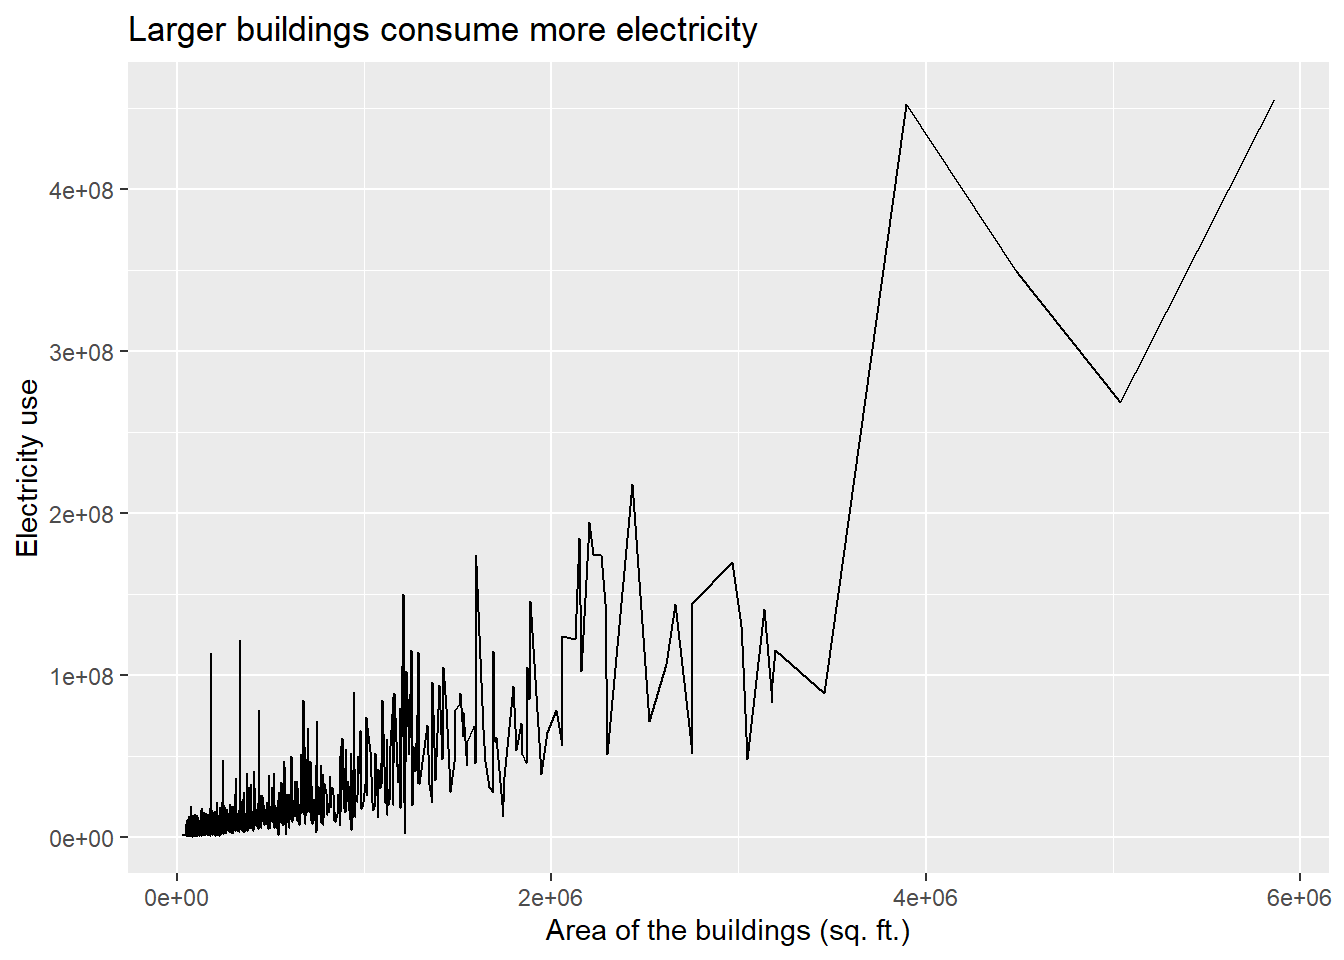
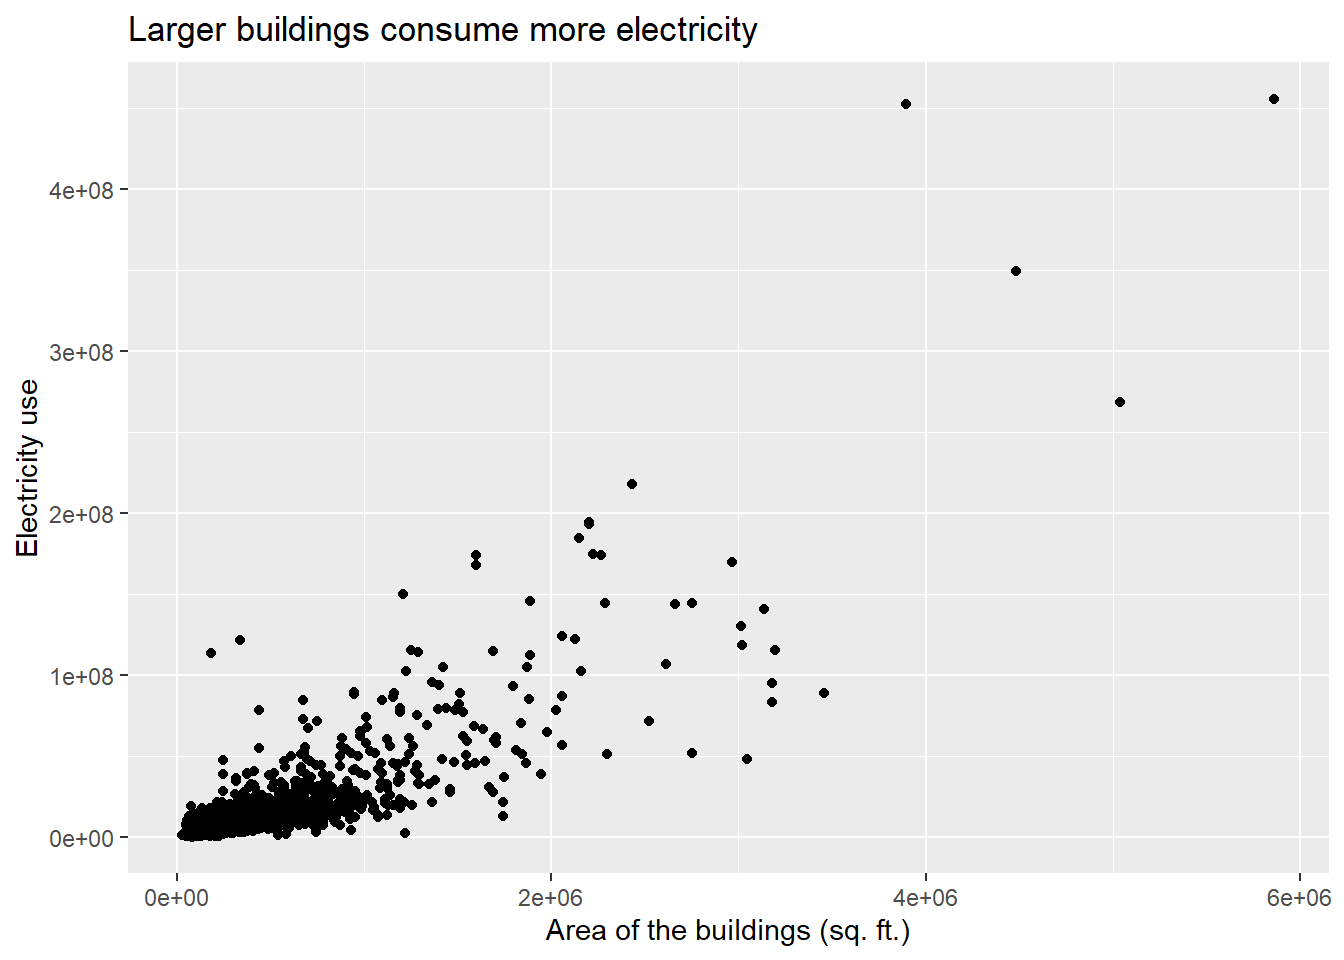
ggplot2 tutorial

diff --git a/docs/fundamental_data_viz.html b/docs/fundamental_data_viz.html
@@ -208,10 +208,8 @@ code span.wa { color: #60a0b0; font-weight: bold; font-style: italic; } /* Warni
   <li><a href="#creating-histograms-to-assess-distribution-of-data" id="toc-creating-histograms-to-assess-distribution-of-data" class="nav-link" data-scroll-target="#creating-histograms-to-assess-distribution-of-data">Creating histograms to assess distribution of data</a></li>
   <li><a href="#visualizing-distribution-using-box-plots" id="toc-visualizing-distribution-using-box-plots" class="nav-link" data-scroll-target="#visualizing-distribution-using-box-plots">Visualizing distribution using box plots</a></li>
   <li><a href="#bar-charts-to-plot-frequency-of-categorical-data" id="toc-bar-charts-to-plot-frequency-of-categorical-data" class="nav-link" data-scroll-target="#bar-charts-to-plot-frequency-of-categorical-data">Bar charts to plot frequency of categorical data</a></li>
-  <li><a href="#creating-data-art-using-ggplot" id="toc-creating-data-art-using-ggplot" class="nav-link" data-scroll-target="#creating-data-art-using-ggplot">Creating data art using ggplot</a>
-  <ul class="collapse">
+  <li><a href="#creating-data-art-using-ggplot" id="toc-creating-data-art-using-ggplot" class="nav-link" data-scroll-target="#creating-data-art-using-ggplot">Creating data art using ggplot</a></li>
   <li><a href="#comparing-distribution-across-zip-codes" id="toc-comparing-distribution-across-zip-codes" class="nav-link" data-scroll-target="#comparing-distribution-across-zip-codes">Comparing distribution across zip codes</a></li>
-  </ul></li>
   </ul>
 </nav>
     </div>
@@ -234,7 +232,7 @@ code span.wa { color: #60a0b0; font-weight: bold; font-style: italic; } /* Warni
 
 </header>
 
-<p>Data visualization helps us mainly with two analytical goals:</p>
+<p>Data visualization helps us mainly with two analytic goals:</p>
 <ul>
 <li>Making sense of data: identify relationships between variables, identify trends and patterns, and gather insights.</li>
 <li>Communicate findings from data analysis with various audience</li>
@@ -296,7 +294,7 @@ code span.wa { color: #60a0b0; font-weight: bold; font-style: italic; } /* Warni
 <div class="cell">
 <div class="sourceCode cell-code" id="cb4"><pre class="sourceCode r code-with-copy"><code class="sourceCode r"><span id="cb4-1"><a href="#cb4-1" aria-hidden="true" tabindex="-1"></a><span class="fu">ggplot</span>(df) <span class="sc">+</span></span>
 <span id="cb4-2"><a href="#cb4-2" aria-hidden="true" tabindex="-1"></a>  <span class="fu">aes</span>(<span class="at">x=</span> area, <span class="at">y =</span> electricity_use)<span class="sc">+</span></span>
-<span id="cb4-3"><a href="#cb4-3" aria-hidden="true" tabindex="-1"></a>  <span class="fu">geom_line</span>()</span></code><button title="Copy to Clipboard" class="code-copy-button"><i class="bi"></i></button></pre></div>
+<span id="cb4-3"><a href="#cb4-3" aria-hidden="true" tabindex="-1"></a>  <span class="fu">geom_point</span>()</span></code><button title="Copy to Clipboard" class="code-copy-button"><i class="bi"></i></button></pre></div>
 <div class="cell-output-display">
 <p><img src="fundamental_data_viz_files/figure-html/unnamed-chunk-3-1.png" class="img-fluid" width="672"></p>
 </div>
@@ -340,7 +338,7 @@ Exercise
 <div class="cell">
 <div class="sourceCode cell-code" id="cb5"><pre class="sourceCode r code-with-copy"><code class="sourceCode r"><span id="cb5-1"><a href="#cb5-1" aria-hidden="true" tabindex="-1"></a><span class="fu">ggplot</span>(df) <span class="sc">+</span></span>
 <span id="cb5-2"><a href="#cb5-2" aria-hidden="true" tabindex="-1"></a>  <span class="fu">aes</span>(<span class="at">x=</span> area, <span class="at">y =</span> electricity_use)<span class="sc">+</span></span>
-<span id="cb5-3"><a href="#cb5-3" aria-hidden="true" tabindex="-1"></a>  <span class="fu">geom_line</span>()<span class="sc">+</span></span>
+<span id="cb5-3"><a href="#cb5-3" aria-hidden="true" tabindex="-1"></a>  <span class="fu">geom_point</span>()<span class="sc">+</span></span>
 <span id="cb5-4"><a href="#cb5-4" aria-hidden="true" tabindex="-1"></a>  <span class="fu">labs</span>(<span class="at">title =</span> <span class="st">"Larger buildings consume more electricity"</span>,</span>
 <span id="cb5-5"><a href="#cb5-5" aria-hidden="true" tabindex="-1"></a>       <span class="at">x =</span> <span class="st">"Area of the buildings (sq. ft.)"</span>,</span>
 <span id="cb5-6"><a href="#cb5-6" aria-hidden="true" tabindex="-1"></a>       <span class="at">y =</span> <span class="st">"Electricity use"</span>)</span></code><button title="Copy to Clipboard" class="code-copy-button"><i class="bi"></i></button></pre></div>
@@ -353,7 +351,7 @@ Exercise
 <div class="cell">
 <div class="sourceCode cell-code" id="cb6"><pre class="sourceCode r code-with-copy"><code class="sourceCode r"><span id="cb6-1"><a href="#cb6-1" aria-hidden="true" tabindex="-1"></a>p <span class="ot">&lt;-</span> <span class="fu">ggplot</span>(df) <span class="sc">+</span></span>
 <span id="cb6-2"><a href="#cb6-2" aria-hidden="true" tabindex="-1"></a>  <span class="fu">aes</span>(<span class="at">x=</span> area, <span class="at">y =</span> electricity_use)<span class="sc">+</span></span>
-<span id="cb6-3"><a href="#cb6-3" aria-hidden="true" tabindex="-1"></a>  <span class="fu">geom_line</span>()<span class="sc">+</span></span>
+<span id="cb6-3"><a href="#cb6-3" aria-hidden="true" tabindex="-1"></a>  <span class="fu">geom_point</span>(<span class="at">alpha=</span><span class="fl">0.5</span>)<span class="sc">+</span> <span class="co">#alpha is for the transparency of the dots</span></span>
 <span id="cb6-4"><a href="#cb6-4" aria-hidden="true" tabindex="-1"></a>  <span class="fu">labs</span>(<span class="at">title =</span> <span class="st">"Larger buildings consume more electricity"</span>,</span>
 <span id="cb6-5"><a href="#cb6-5" aria-hidden="true" tabindex="-1"></a>       <span class="at">x =</span> <span class="st">"Area of the buildings (sq. ft.)"</span>,</span>
 <span id="cb6-6"><a href="#cb6-6" aria-hidden="true" tabindex="-1"></a>       <span class="at">y =</span> <span class="st">"Electricity use"</span>)</span></code><button title="Copy to Clipboard" class="code-copy-button"><i class="bi"></i></button></pre></div>
@@ -533,13 +531,13 @@ Exercise
 <section id="bar-charts-to-plot-frequency-of-categorical-data" class="level2">
 <h2 class="anchored" data-anchor-id="bar-charts-to-plot-frequency-of-categorical-data">Bar charts to plot frequency of categorical data</h2>
 <p>Bar charts help us visualize categorical data such as colors, zip codes, cities, etc.</p>
-<p>Number of buildings in each zip code</p>
+<p><em>Number of buildings in each zip code</em></p>
 <div class="cell">
 <div class="sourceCode cell-code" id="cb21"><pre class="sourceCode r code-with-copy"><code class="sourceCode r"><span id="cb21-1"><a href="#cb21-1" aria-hidden="true" tabindex="-1"></a>bldg_zip_df <span class="ot">&lt;-</span> df <span class="sc">|&gt;</span></span>
 <span id="cb21-2"><a href="#cb21-2" aria-hidden="true" tabindex="-1"></a>  <span class="fu">group_by</span>(zip_code) <span class="sc">%&gt;%</span> </span>
 <span id="cb21-3"><a href="#cb21-3" aria-hidden="true" tabindex="-1"></a>  <span class="fu">summarise</span>(<span class="at">num_buildings =</span> <span class="fu">n</span>())</span></code><button title="Copy to Clipboard" class="code-copy-button"><i class="bi"></i></button></pre></div>
 </div>
-<p>Bar chart</p>
+<p><em>Bar chart</em></p>
 <div class="cell">
 <div class="sourceCode cell-code" id="cb22"><pre class="sourceCode r code-with-copy"><code class="sourceCode r"><span id="cb22-1"><a href="#cb22-1" aria-hidden="true" tabindex="-1"></a><span class="fu">ggplot</span>(bldg_zip_df , <span class="fu">aes</span>(<span class="at">x =</span> zip_code, <span class="at">y =</span> num_buildings)) <span class="sc">+</span> </span>
 <span id="cb22-2"><a href="#cb22-2" aria-hidden="true" tabindex="-1"></a>  <span class="fu">geom_bar</span>(<span class="at">stat =</span> <span class="st">"identity"</span>) <span class="sc">+</span></span>
@@ -620,8 +618,9 @@ Exercise
 <p><img src="fundamental_data_viz_files/figure-html/unnamed-chunk-19-1.png" class="img-fluid" width="672"></p>
 </div>
 </div>
-<section id="comparing-distribution-across-zip-codes" class="level3">
-<h3 class="anchored" data-anchor-id="comparing-distribution-across-zip-codes">Comparing distribution across zip codes</h3>
+</section>
+<section id="comparing-distribution-across-zip-codes" class="level2">
+<h2 class="anchored" data-anchor-id="comparing-distribution-across-zip-codes">Comparing distribution across zip codes</h2>
 <p>Another alternative is Violin plots that combine the advantages of histogram and box plots.</p>
 <div class="cell">
 <div class="sourceCode cell-code" id="cb28"><pre class="sourceCode r code-with-copy"><code class="sourceCode r"><span id="cb28-1"><a href="#cb28-1" aria-hidden="true" tabindex="-1"></a>df2 <span class="ot">&lt;-</span> df <span class="sc">|&gt;</span> </span>
@@ -651,14 +650,20 @@ Exercise
 <p>Let’s compare two zip codes with the most number of buildings on the distribution of sizes of the buildings.</p>
 <div class="cell">
 <div class="sourceCode cell-code" id="cb30"><pre class="sourceCode r code-with-copy"><code class="sourceCode r"><span id="cb30-1"><a href="#cb30-1" aria-hidden="true" tabindex="-1"></a><span class="fu">ggplot</span>(df2, <span class="fu">aes</span>(<span class="at">x =</span> <span class="fu">as.factor</span>(zip_code), <span class="at">y =</span> area)) <span class="sc">+</span></span>
-<span id="cb30-2"><a href="#cb30-2" aria-hidden="true" tabindex="-1"></a>  <span class="fu">geom_violin</span>() </span></code><button title="Copy to Clipboard" class="code-copy-button"><i class="bi"></i></button></pre></div>
+<span id="cb30-2"><a href="#cb30-2" aria-hidden="true" tabindex="-1"></a>  <span class="fu">geom_violin</span>() <span class="sc">+</span></span>
+<span id="cb30-3"><a href="#cb30-3" aria-hidden="true" tabindex="-1"></a>  <span class="fu">stat_summary</span>(<span class="at">fun.y=</span>mean, <span class="at">geom=</span><span class="st">"point"</span>, <span class="at">size=</span><span class="dv">2</span>) <span class="sc">+</span> <span class="co">#add mean</span></span>
+<span id="cb30-4"><a href="#cb30-4" aria-hidden="true" tabindex="-1"></a>  <span class="fu">stat_summary</span>(<span class="at">fun.y=</span>median, <span class="at">geom=</span><span class="st">"point"</span>, <span class="at">size=</span><span class="dv">2</span>, <span class="at">color=</span><span class="st">"red"</span>) <span class="co"># add median</span></span></code><button title="Copy to Clipboard" class="code-copy-button"><i class="bi"></i></button></pre></div>
+<div class="cell-output cell-output-stderr">
+<pre><code>Warning: The `fun.y` argument of `stat_summary()` is deprecated as of ggplot2 3.3.0.
+ℹ Please use the `fun` argument instead.</code></pre>
+</div>
 <div class="cell-output-display">
 <p><img src="fundamental_data_viz_files/figure-html/unnamed-chunk-21-1.png" class="img-fluid" width="672"></p>
 </div>
 </div>
 <div class="cell">
-<div class="sourceCode cell-code" id="cb31"><pre class="sourceCode r code-with-copy"><code class="sourceCode r"><span id="cb31-1"><a href="#cb31-1" aria-hidden="true" tabindex="-1"></a><span class="fu">ggplot</span>(df2, <span class="fu">aes</span>(<span class="at">x =</span> <span class="fu">as.factor</span>(zip_code), <span class="at">y =</span> area)) <span class="sc">+</span></span>
-<span id="cb31-2"><a href="#cb31-2" aria-hidden="true" tabindex="-1"></a>  <span class="fu">geom_boxplot</span>() </span></code><button title="Copy to Clipboard" class="code-copy-button"><i class="bi"></i></button></pre></div>
+<div class="sourceCode cell-code" id="cb32"><pre class="sourceCode r code-with-copy"><code class="sourceCode r"><span id="cb32-1"><a href="#cb32-1" aria-hidden="true" tabindex="-1"></a><span class="fu">ggplot</span>(df2, <span class="fu">aes</span>(<span class="at">x =</span> <span class="fu">as.factor</span>(zip_code), <span class="at">y =</span> area)) <span class="sc">+</span></span>
+<span id="cb32-2"><a href="#cb32-2" aria-hidden="true" tabindex="-1"></a>  <span class="fu">geom_boxplot</span>() </span></code><button title="Copy to Clipboard" class="code-copy-button"><i class="bi"></i></button></pre></div>
 <div class="cell-output-display">
 <p><img src="fundamental_data_viz_files/figure-html/unnamed-chunk-22-1.png" class="img-fluid" width="672"></p>
 </div>
@@ -683,7 +688,6 @@ Exercise
 </div>
 
 
-</section>
 </section>
 
 </main> <!-- /main -->
